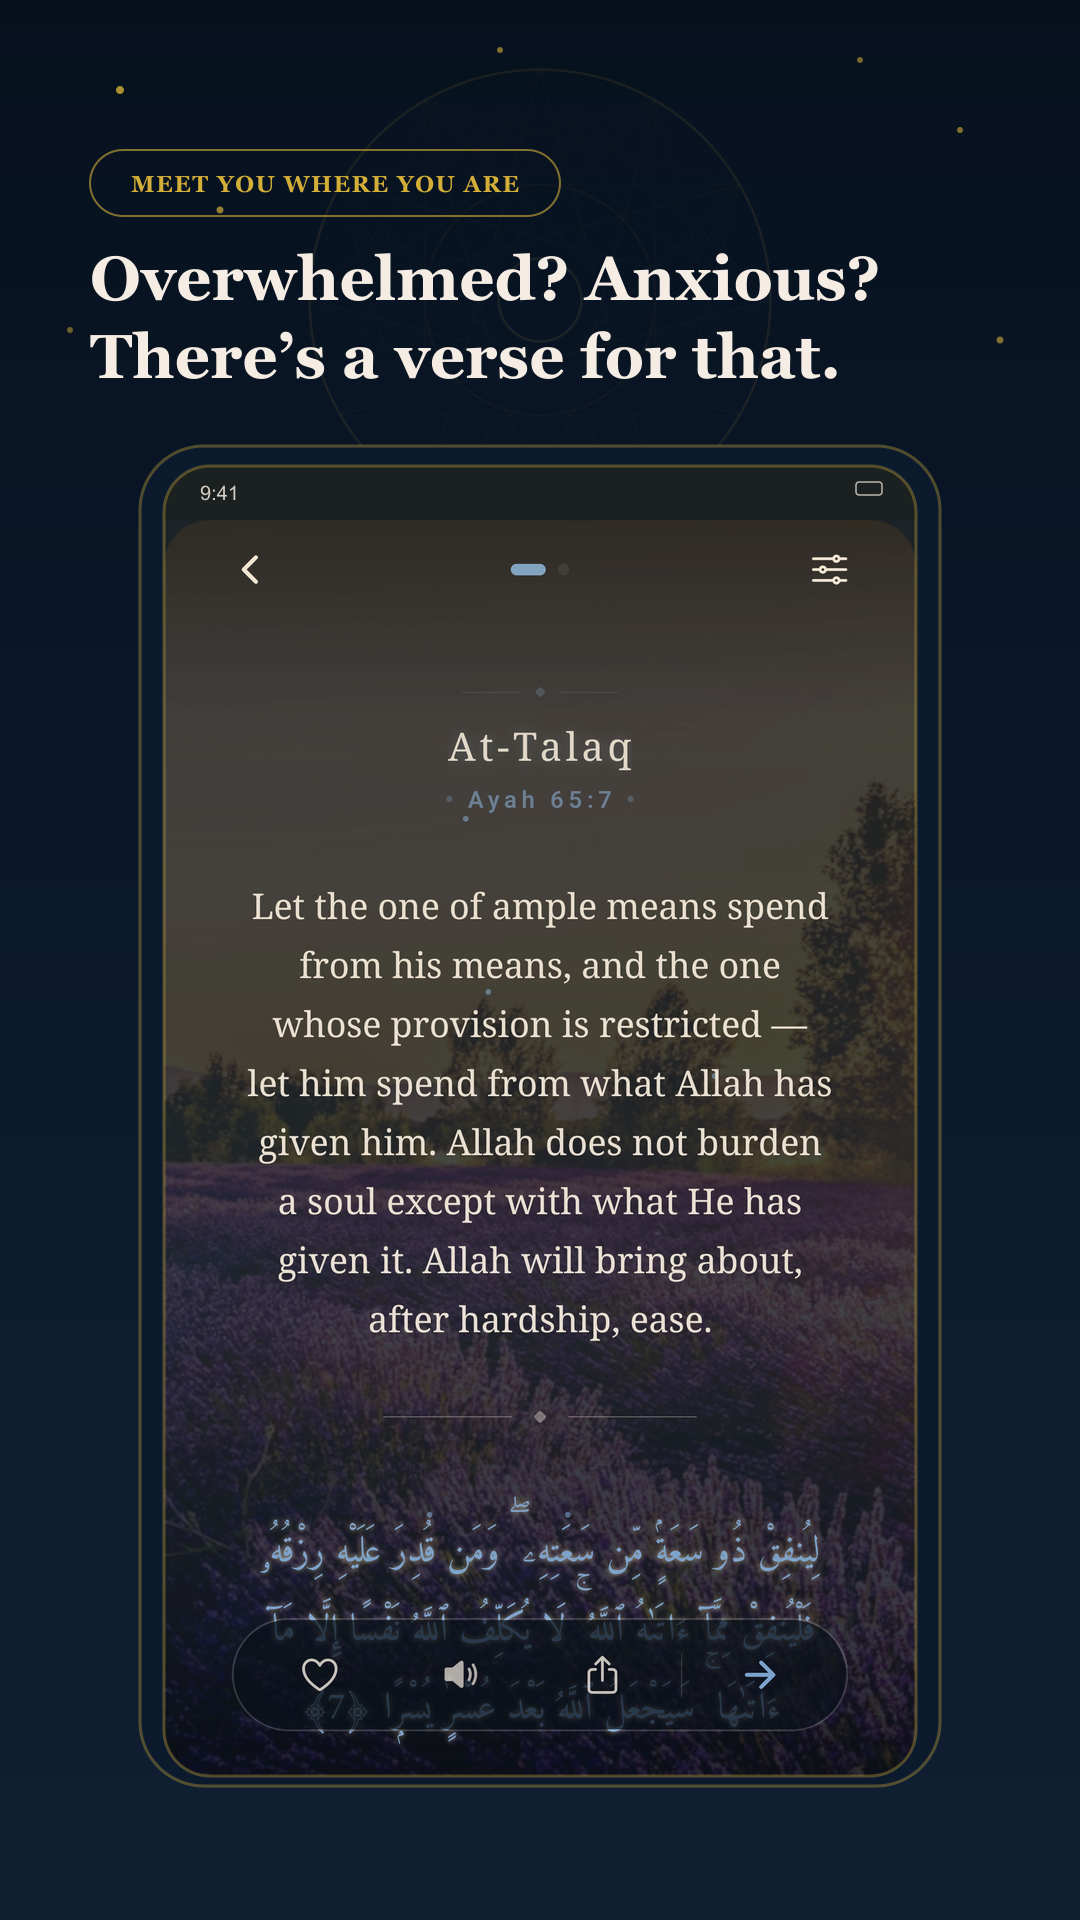
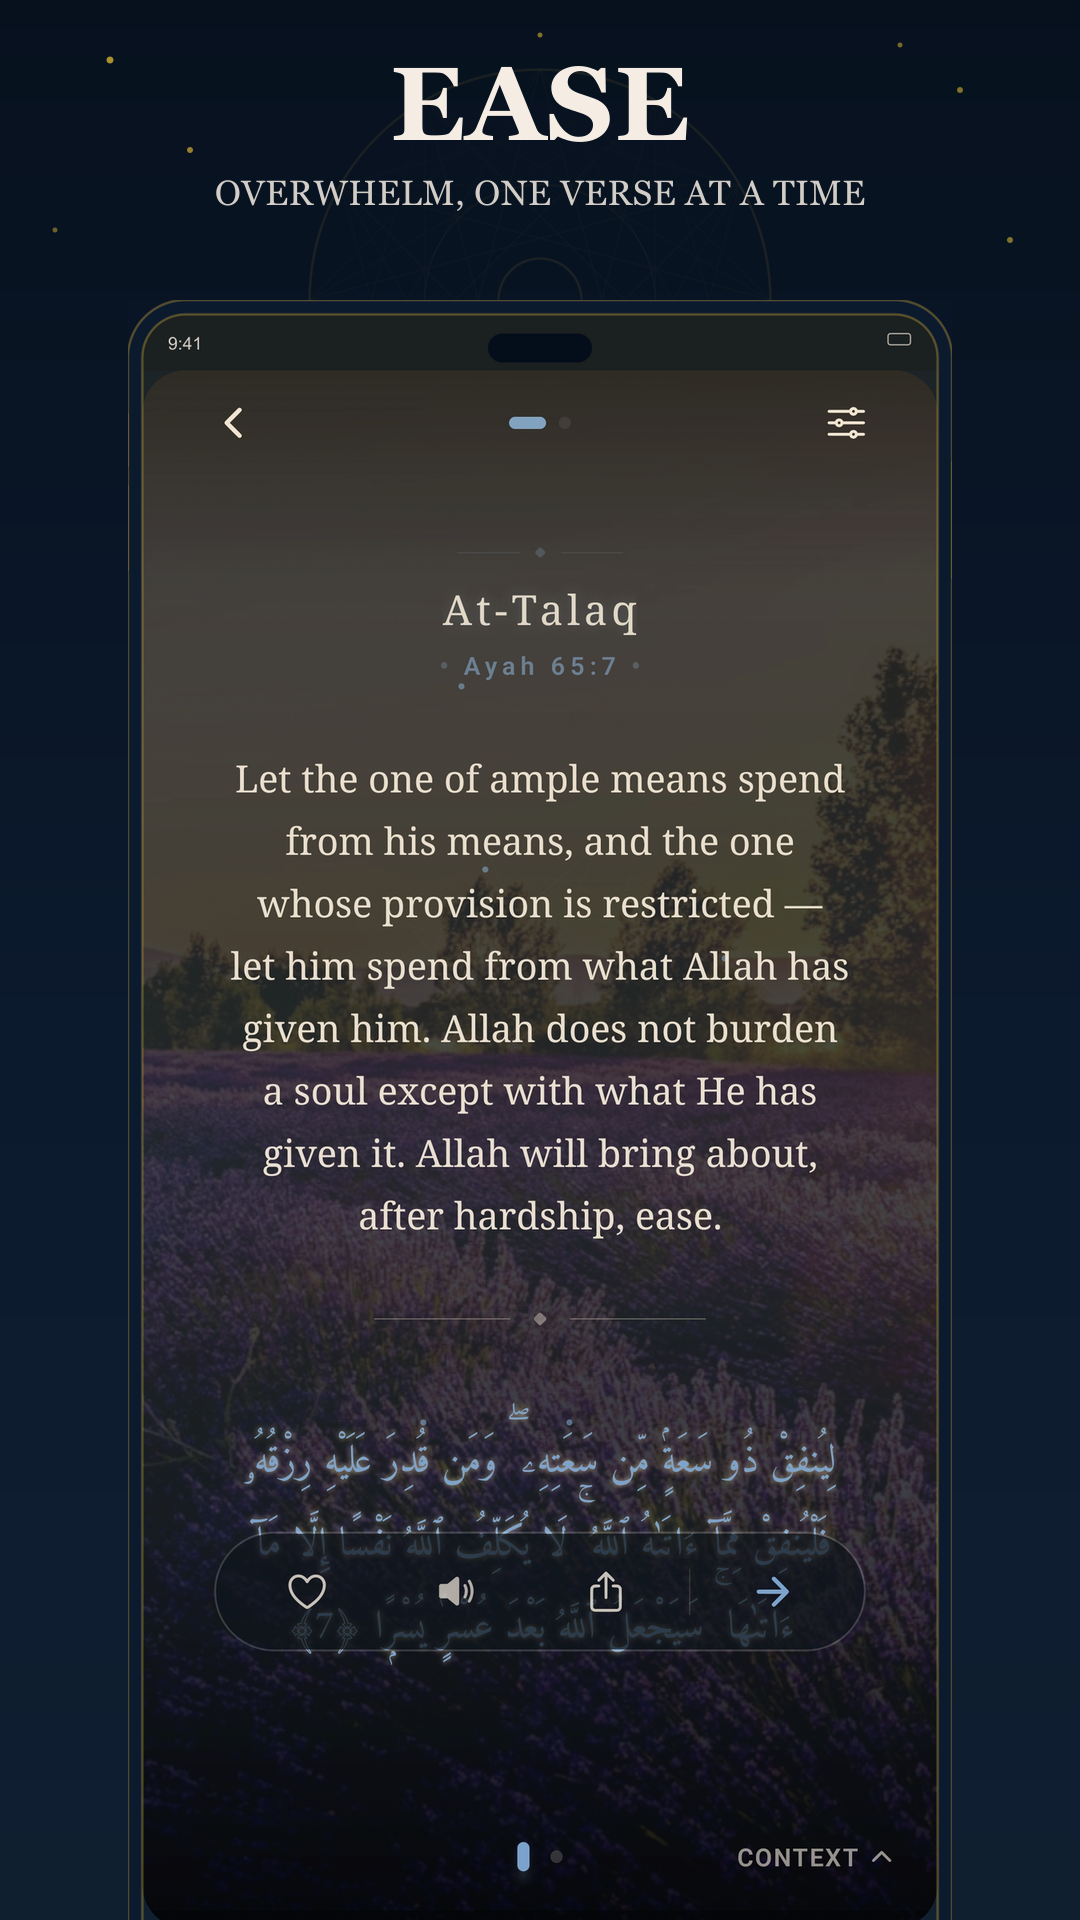
feat(store): rebuild the Play phone screenshots from the App Store canvas
The old google-play compositor drew its own phone bezel in SVG, so the Play
screenshots looked like a different product from the App Store ones. The new
_compose-appstyle.js crops the already-rendered device mockup (bezel, dynamic
island, status bar, real content) out of the committed App Store PNGs and
re-composites it onto a 1080x1920 Play canvas, so both stores show the same
device with the same headline treatment.

Its inputs are store-assets/app-store/*.png, which are tracked, so the whole
set is reproducible from the repo — unlike the App Store compositor, whose
raw device captures are gitignored.

Also adds the two screenshots the set was missing: 07-grow-journeys and
08-save-verses. 06 is now Read Quran, matching the App Store ordering.

Changed region(s): [[0.0917, 0.0312, 0.8861, 1.0]]

diff --git a/store-assets/google-play/_compose-appstyle.js b/store-assets/google-play/_compose-appstyle.js
@@ -1,0 +1,90 @@
+const sharp = require('sharp');
+const path = require('path');
+
+// Play Store phone screenshot canvas
+const CANVAS_W = 1080;
+const CANVAS_H = 1920;
+
+// region of the source App Store iPhone-canvas PNG holding the fully-rendered
+// phone mockup (bezel + dynamic island + status bar + real content)
+const SRC_DEVICE_X = 130, SRC_DEVICE_Y = 700, SRC_DEVICE_W = 1030;
+const SRC_DEVICE_H = 2796 - SRC_DEVICE_Y; // 2096
+
+const SCALE = 0.8;
+const DEV_W = Math.round(SRC_DEVICE_W * SCALE);
+const DEV_H = Math.round(SRC_DEVICE_H * SCALE);
+const DEVICE_X = Math.round((CANVAS_W - DEV_W) / 2);
+const DEVICE_Y = 300;
+
+const CX = CANVAS_W / 2;
+
+const bgDefs = `
+  <linearGradient id="bgGrad" x1="0" y1="0" x2="0" y2="1">
+    <stop offset="0" stop-color="#07111E"/>
+    <stop offset="0.55" stop-color="#0C1A2E"/>
+    <stop offset="1" stop-color="#0F1F30"/>
+  </linearGradient>`;
+
+function mandala() {
+  const tx = CX - 240, ty = 60;
+  return `<g transform="translate(${tx},${ty}) scale(4.8)" opacity="0.16" fill="none" stroke="#D4AF37" stroke-linejoin="round" stroke-linecap="round"><circle cx="50" cy="50" r="48" stroke-width="0.5" opacity="0.6"/><path d="M 50.00,2.00 L 98.00,50.00 M 74.00,8.43 L 91.57,74.00 M 91.57,26.00 L 74.00,91.57 M 98.00,50.00 L 50.00,98.00 M 91.57,74.00 L 26.00,91.57 M 74.00,91.57 L 8.43,74.00 M 50.00,98.00 L 2.00,50.00 M 26.00,91.57 L 8.43,26.00 M 8.43,74.00 L 26.00,8.43 M 2.00,50.00 L 50.00,2.00 M 8.43,26.00 L 74.00,8.43 M 26.00,8.43 L 91.57,26.00" stroke-width="0.27" opacity="0.1"/><path d="M 50.00,2.00 L 91.57,74.00 M 74.00,8.43 L 74.00,91.57 M 91.57,26.00 L 50.00,98.00 M 98.00,50.00 L 26.00,91.57 M 91.57,74.00 L 8.43,74.00 M 74.00,91.57 L 2.00,50.00 M 50.00,98.00 L 8.43,26.00 M 26.00,91.57 L 26.00,8.43 M 8.43,74.00 L 50.00,2.00 M 2.00,50.00 L 74.00,8.43 M 8.43,26.00 L 91.57,26.00 M 26.00,8.43 L 98.00,50.00" stroke-width="0.27" opacity="0.1"/><path d="M 50.00,2.00 L 74.00,91.57 M 74.00,8.43 L 50.00,98.00 M 91.57,26.00 L 26.00,91.57 M 98.00,50.00 L 8.43,74.00 M 91.57,74.00 L 2.00,50.00 M 74.00,91.57 L 8.43,26.00 M 50.00,98.00 L 26.00,8.43 M 26.00,91.57 L 50.00,2.00 M 8.43,74.00 L 74.00,8.43 M 2.00,50.00 L 91.57,26.00 M 8.43,26.00 L 98.00,50.00 M 26.00,8.43 L 91.57,74.00" stroke-width="0.27" opacity="0.15"/><circle cx="50" cy="50" r="24" stroke-width="0.24" opacity="0.3"/><circle cx="50" cy="50" r="8.64" stroke-width="0.5" opacity="0.6"/></g>`;
+}
+
+function stars() {
+  const pts = [
+    [110, 60, 3.5, 0.8], [960, 90, 3, 0.6], [190, 150, 3, 0.7],
+    [900, 45, 2.5, 0.55], [540, 35, 2.5, 0.6], [55, 230, 2.5, 0.5], [1010, 240, 3, 0.6],
+  ];
+  return `<g fill="#D4AF37">${pts.map(([x, y, r, o]) => `<circle cx="${x}" cy="${y}" r="${r}" fill-opacity="${o}"/>`).join('')}</g>`;
+}
+
+function headline(verb, desc) {
+  return `
+  <text x="${CX}" y="140" text-anchor="middle" font-family="Georgia, serif" font-size="104" font-weight="bold" letter-spacing="1" fill="#F5EDE3">${verb}</text>
+  <text x="${CX}" y="205" text-anchor="middle" font-family="Georgia, serif" font-size="35" letter-spacing="0.5" fill="#F5EDE3" fill-opacity="0.85">${desc}</text>`;
+}
+
+async function buildBackground(verb, desc) {
+  const svg = `<svg width="${CANVAS_W}" height="${CANVAS_H}" viewBox="0 0 ${CANVAS_W} ${CANVAS_H}" xmlns="http://www.w3.org/2000/svg">
+    <defs>${bgDefs}</defs>
+    <rect x="0" y="0" width="${CANVAS_W}" height="${CANVAS_H}" fill="url(#bgGrad)"/>
+    ${mandala()}
+    ${stars()}
+    ${headline(verb, desc)}
+  </svg>`;
+  return sharp(Buffer.from(svg)).png().toBuffer();
+}
+
+async function buildDeviceLayer(srcPngPath) {
+  const cropped = await sharp(srcPngPath)
+    .extract({ left: SRC_DEVICE_X, top: SRC_DEVICE_Y, width: SRC_DEVICE_W, height: SRC_DEVICE_H })
+    .resize(DEV_W, DEV_H)
+    .png()
+    .toBuffer();
+
+  const layer = sharp({ create: { width: CANVAS_W, height: CANVAS_H, channels: 4, background: { r: 0, g: 0, b: 0, alpha: 0 } } });
+  return layer.composite([{ input: cropped, left: DEVICE_X, top: DEVICE_Y }]).png().toBuffer();
+}
+
+const JOBS = [
+  { out: '01-hook-mood-grid.png', verb: 'FIND', desc: 'A VERSE FOR HOW YOU FEEL', src: '../app-store/01-find-verse.png' },
+  { out: '02-relief-verse-match.png', verb: 'EASE', desc: 'OVERWHELM, ONE VERSE AT A TIME', src: '../app-store/02-ease-overwhelm.png' },
+  { out: '03-growth-streak-journeys.png', verb: 'BUILD', desc: 'A DAILY HABIT THAT STICKS', src: '../app-store/03-build-habit.png' },
+  { out: '04-trust-private-journal.png', verb: 'KEEP', desc: 'YOUR REFLECTIONS COMPLETELY PRIVATE', src: '../app-store/04-keep-private.png' },
+  { out: '05-brand-welcome.png', verb: 'BEGIN', desc: 'YOUR JOURNEY TO SAKINA', src: '../app-store/05-begin-journey.png' },
+  { out: '06-read-quran.png', verb: 'READ', desc: 'THE COMPLETE QURAN, BEAUTIFULLY', src: '../app-store/07-read-quran.png' },
+  { out: '07-grow-journeys.png', verb: 'GROW', desc: 'THROUGH GUIDED SPIRITUAL JOURNEYS', src: '../app-store/06-grow-journeys.png' },
+  { out: '08-save-verses.png', verb: 'SAVE', desc: 'EVERY VERSE THAT SPEAKS TO YOU', src: '../app-store/08-save-verses.png' },
+];
+
+(async () => {
+  const base = __dirname;
+  for (const job of JOBS) {
+    const [bg, device] = await Promise.all([
+      buildBackground(job.verb, job.desc),
+      buildDeviceLayer(path.join(base, job.src)),
+    ]);
+    await sharp(bg).composite([{ input: device }]).png().toFile(path.join(base, job.out));
+    console.log('wrote', job.out);
+  }
+})().catch((e) => { console.error(e); process.exit(1); });
